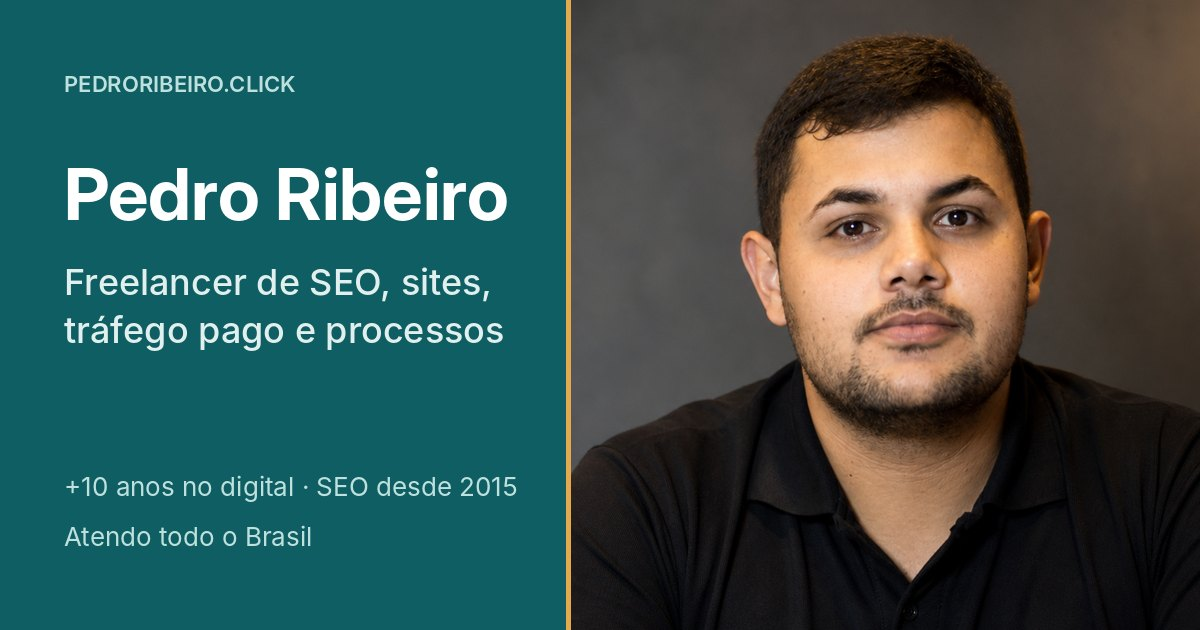
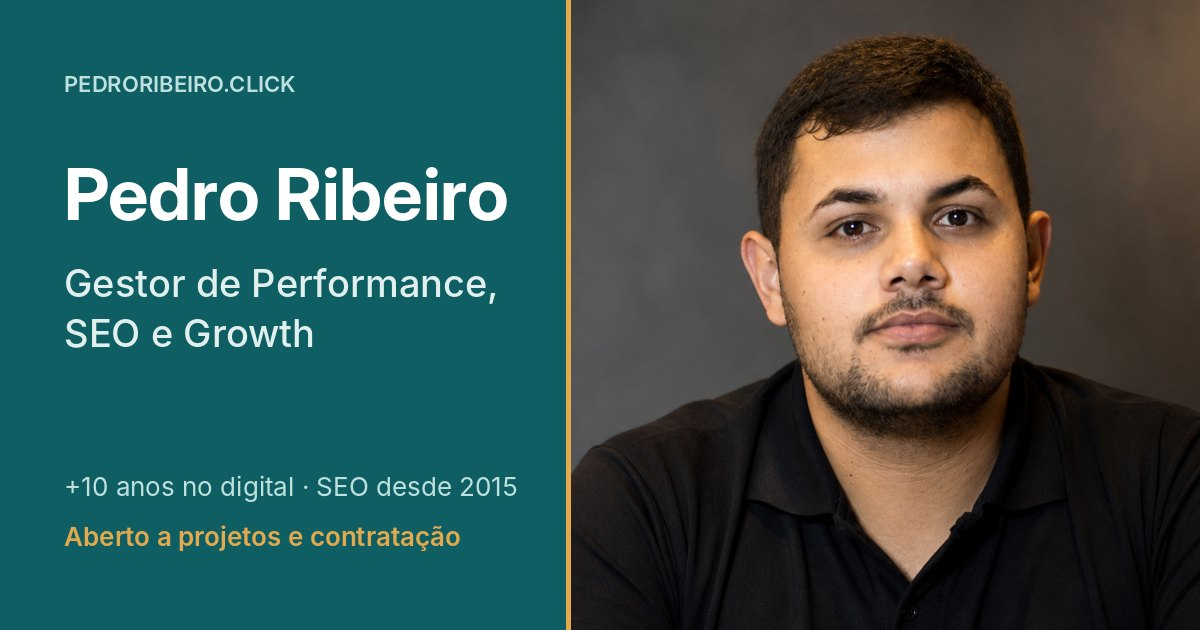
Home aberta a contratação, sem automação de WhatsApp e com novo CTA
- Seção 'Formas de trabalhar comigo': CLT ou PJ, projetos e gestão mensal
- Serviço 3 vira 'Tráfego pago e retenção de clientes'; remove ativação por WhatsApp e o grupo de ferramentas de ativação
- CTA final com dois caminhos: 'Tenho uma vaga' e 'Tenho um projeto'
- Menu 'Contato' no lugar de 'WhatsApp'; caixa de autor do blog com 'Vamos conversar'
- Título, descrição e imagem de prévia: Gestor de Performance, SEO e Growth

Claude-Session: https://claude.ai/code/session_01RxAB8NnbBN8iyLoSrqad1N

Changed region(s): [[0.0308, 0.4222, 0.4317, 0.573], [0.0308, 0.8143, 0.4008, 0.8746]]

diff --git a/src/home.html b/src/home.html
@@ -54,7 +54,7 @@ j=d.createElement(s),dl=l!='dataLayer'?'&l='+l:'';j.async=true;j.src=
    "alternateName": "Pedro Ribeiro",
    "url": "https://pedroribeiro.click/",
    "image": "https://pedroribeiro.click/img/pedro-ribeiro.jpg",
-   "jobTitle": "Freelancer de SEO, Sites, Tráfego Pago e Processos",
+   "jobTitle": "Gestor de Performance, SEO e Growth",
    "telephone": "+55-37-98412-5469",
    "address": {
     "@type": "PostalAddress",
@@ -74,7 +74,7 @@ j=d.createElement(s),dl=l!='dataLayer'?'&l='+l:'';j.async=true;j.src=
     "Criação de sites em WordPress",
     "Landing pages",
     "Tráfego pago (Meta Ads)",
-    "Ativação de clientes por WhatsApp e ligação",
+    "Estratégia de retenção de clientes",
     "Mapeamento de processos",
     "Gestão de performance"
    ],
@@ -111,12 +111,13 @@ j=d.createElement(s),dl=l!='dataLayer'?'&l='+l:'';j.async=true;j.src=
      "name": "Estratégia de Negócios",
      "credentialCategory": "Certificado"
     }
-   ]
+   ],
+   "description": "Gestor de Performance, SEO e Growth com mais de 10 anos no digital. Aberto a contratação CLT ou PJ e a projetos."
   },
   {
    "@type": "ProfessionalService",
    "@id": "https://pedroribeiro.click/#servico",
-   "name": "Pedro Ribeiro · SEO, Sites e Tráfego Pago",
+   "name": "Pedro Ribeiro · Performance, SEO e Growth",
    "url": "https://pedroribeiro.click/",
    "image": "https://pedroribeiro.click/img/og-image.jpg",
    "telephone": "+55-37-98412-5469",
@@ -196,7 +197,7 @@ j=d.createElement(s),dl=l!='dataLayer'?'&l='+l:'';j.async=true;j.src=
       "@type": "Offer",
       "itemOffered": {
        "@type": "Service",
-       "name": "Ativação de clientes por WhatsApp e ligação"
+       "name": "Estratégia de retenção de clientes"
       }
      },
      {
@@ -410,7 +411,7 @@ footer { padding-block: 28px 40px; color: var(--muted); font-size: 13.5px; }
 .topnav { display: flex; gap: 18px; align-items: center; font-size: 15px; }
 .topnav a { color: var(--muted); text-decoration: none; font-weight: 500; }
 .topnav a:hover, .topnav a[aria-current="page"] { color: var(--accent); }
-.topnav .nav-wa { color: var(--wa); font-weight: 600; }
+.topnav .nav-wa { color: var(--accent); font-weight: 600; }
 @media (max-width: 560px) { .topnav .hide-sm { display: none; } }
 .creds { display: grid; grid-template-columns: repeat(2, minmax(0, 1fr)); gap: 18px; }
 .cred { display: flex; gap: 16px; align-items: flex-start; background: var(--surface); border: 1px solid var(--line); border-radius: 16px; padding: 20px; min-width: 0; }
@@ -427,6 +428,28 @@ footer { padding-block: 28px 40px; color: var(--muted); font-size: 13.5px; }
 .post-card p { color: var(--muted); font-size: 15px; }
 .more { margin-top: 22px; font-weight: 600; }
 @media (max-width: 860px) { .creds, .posts { grid-template-columns: 1fr; } }
+
+.modes { display: grid; grid-template-columns: repeat(3, minmax(0, 1fr)); gap: 18px; }
+.mode { display: grid; gap: 12px; align-content: start; background: var(--surface); border: 1px solid var(--line); border-radius: 16px; padding: 24px; min-width: 0; }
+.mode.hire { background: var(--accent-soft); border-color: transparent; }
+.mode .tag { font-family: var(--mono); font-size: 12px; color: var(--signal); letter-spacing: .06em; text-transform: uppercase; }
+.mode h3 { font-size: 21px; font-weight: 700; }
+.mode p { color: var(--muted); font-size: 15.5px; }
+.mode ul { margin: 0; padding: 0; list-style: none; display: grid; gap: 6px; font-size: 15px; }
+.mode li { padding-left: 20px; position: relative; }
+.mode li::before { content: ""; position: absolute; left: 2px; top: .62em; width: 8px; height: 2px; background: var(--accent); }
+.mode .link { font-weight: 600; text-decoration: none; margin-top: 4px; }
+.btn-primary { background: var(--accent); color: var(--bg); }
+.btn-primary:hover { transform: translateY(-1px); box-shadow: 0 6px 18px rgba(0,0,0,.14); }
+.paths { display: grid; grid-template-columns: repeat(2, minmax(0, 1fr)); gap: 16px; margin-top: 10px; }
+.path { background: color-mix(in srgb, var(--bg) 10%, transparent); border: 1px solid color-mix(in srgb, var(--bg) 30%, transparent); border-radius: 16px; padding: 22px; display: grid; gap: 10px; align-content: start; }
+.path h3 { color: var(--bg); font-size: 19px; font-weight: 700; }
+.path p { font-size: 15.5px; }
+.path .btn-row { margin-top: 6px; }
+.cta .btn-light { background: var(--bg); color: var(--accent); }
+.cta .btn-outline { border: 1px solid color-mix(in srgb, var(--bg) 60%, transparent); color: var(--bg); }
+.cta .reach { font-size: 14.5px; opacity: .85; margin-top: 6px; }
+@media (max-width: 860px) { .modes, .paths { grid-template-columns: 1fr; } }
 </style>
 </head>
 <body>
@@ -441,7 +464,7 @@ height="0" width="0" style="display:none;visibility:hidden"></iframe></noscript>
       <a class="hide-sm" href="/#servicos">Serviços</a>
       <a class="hide-sm" href="/#cases">Cases</a>
       <a href="/blog">Blog</a>
-      <a class="nav-wa" href="https://wa.me/5537984125469?text=Ol%C3%A1%2C%20Pedro!%20Vi%20seu%20portf%C3%B3lio%20e%20quero%20conversar%20sobre%20um%20projeto." target="_blank" rel="noopener">WhatsApp</a>
+      <a class="nav-wa" href="/#contato">Contato</a>
     </nav>
   </div>
 </header>
@@ -451,25 +474,24 @@ height="0" width="0" style="display:none;visibility:hidden"></iframe></noscript>
   <div class="wrap">
     <div class="hero-grid">
       <div>
-        <p class="eyebrow">Freelancer · SEO, sites, tráfego pago e processos</p>
+        <p class="eyebrow">Performance, SEO e Growth · Aberto a projetos e contratação</p>
         <h1 style="margin-top:12px">Pedro Ribeiro</h1>
-        <p class="role">Faço sua empresa ser encontrada, vender mais e funcionar com processo.</p>
+        <p class="role">Ajudo empresas a serem encontradas, venderem mais e funcionarem com processo.</p>
         <p class="pitch">Gestor de Performance e Operações com mais de 10 anos no digital. Comecei em 2015 criando e monetizando sites com SEO e hoje junto as duas pontas: executo a parte técnica (sites, SEO, Google Meu Negócio, anúncios) e organizo a operação em volta dela (processos, indicadores e rotina).</p>
         <div class="chips">
-          <span class="chip"><b>Remoto</b> · atendo todo o Brasil</span>
+          <span class="chip"><b>Disponível</b> · CLT, PJ ou projetos</span>
           <span class="chip">Gestor que também executa</span>
-          <span class="chip">Bacharel em Ciências Contábeis</span>
+          <span class="chip">Remoto, híbrido ou presencial em Pompéu-MG</span>
         </div>
         <div class="btn-row">
-          <a class="btn btn-wa" href="https://wa.me/5537984125469?text=Ol%C3%A1%2C%20Pedro!%20Vi%20seu%20portf%C3%B3lio%20e%20quero%20conversar%20sobre%20um%20projeto." target="_blank" rel="noopener"><svg viewBox="0 0 24 24" aria-hidden="true"><path d="M12.04 2C6.58 2 2.13 6.45 2.13 11.91c0 1.75.46 3.45 1.32 4.95L2.05 22l5.25-1.38a9.9 9.9 0 0 0 4.74 1.21h.01c5.46 0 9.91-4.45 9.91-9.91A9.85 9.85 0 0 0 12.04 2zm5.8 14.08c-.25.69-1.45 1.33-2 1.38-.51.05-1 .24-3.36-.7-2.84-1.12-4.65-4.04-4.79-4.22-.14-.19-1.15-1.53-1.15-2.92s.73-2.07.99-2.35c.26-.28.56-.35.75-.35h.54c.17 0 .41-.07.64.49.24.58.81 2 .88 2.14.07.14.12.31.02.5-.09.19-.14.31-.28.47-.14.17-.3.37-.42.5-.14.14-.29.29-.12.57.17.28.74 1.22 1.59 1.98 1.09.97 2.01 1.27 2.29 1.41.28.14.45.12.61-.07.17-.19.71-.82.9-1.11.19-.28.37-.24.63-.14.26.09 1.64.77 1.92.91.28.14.47.21.54.33.07.12.07.68-.18 1.37z"/></svg>Falar no WhatsApp</a>
-          <a class="btn btn-ghost" href="#servicos">Ver serviços</a>
+          <a class="btn btn-primary" href="#contato">Vamos conversar</a>
+          <a class="btn btn-ghost" href="#formas">Como posso ajudar</a>
           <a class="btn btn-icon" href="https://www.linkedin.com/in/pedro-henrique-ribeiro/" target="_blank" rel="noopener me" aria-label="LinkedIn de Pedro Ribeiro" title="LinkedIn"><svg viewBox="0 0 24 24" aria-hidden="true"><path d="M20.45 20.45h-3.55v-5.57c0-1.33-.03-3.04-1.85-3.04-1.85 0-2.14 1.45-2.14 2.94v5.67H9.36V9h3.41v1.56h.05c.47-.9 1.63-1.85 3.36-1.85 3.6 0 4.27 2.37 4.27 5.45v6.29zM5.34 7.43a2.06 2.06 0 1 1 0-4.12 2.06 2.06 0 0 1 0 4.12zM7.12 20.45H3.56V9h3.56v11.45zM22.22 0H1.77C.79 0 0 .77 0 1.73v20.54C0 23.23.79 24 1.77 24h20.45c.98 0 1.78-.77 1.78-1.73V1.73C24 .77 23.2 0 22.22 0z"/></svg></a>
           <a class="btn btn-icon" href="https://github.com/pedrodadila" target="_blank" rel="noopener me" aria-label="GitHub de Pedro Ribeiro" title="GitHub"><svg viewBox="0 0 24 24" aria-hidden="true"><path d="M12 .3a12 12 0 0 0-3.8 23.4c.6.1.8-.3.8-.6v-2c-3.3.7-4-1.6-4-1.6-.6-1.4-1.4-1.8-1.4-1.8-1-.7.1-.7.1-.7 1.2.1 1.8 1.2 1.8 1.2 1 1.8 2.8 1.3 3.5 1 .1-.8.4-1.3.7-1.6-2.7-.3-5.5-1.3-5.5-5.9 0-1.3.5-2.4 1.2-3.2-.1-.3-.5-1.5.1-3.2 0 0 1-.3 3.3 1.2a11.5 11.5 0 0 1 6 0c2.3-1.5 3.3-1.2 3.3-1.2.7 1.7.2 2.9.1 3.2.8.8 1.2 1.9 1.2 3.2 0 4.6-2.8 5.6-5.5 5.9.5.4.9 1.1.9 2.3v3.3c0 .3.2.7.8.6A12 12 0 0 0 12 .3"/></svg></a>
-          <span class="phone">(37) 98412-5469</span>
         </div>
       </div>
       <figure class="portrait" style="margin:0">
-        <picture><source srcset="img/pedro-ribeiro.webp" type="image/webp"><img src="img/pedro-ribeiro.jpg" width="560" height="560" alt="Pedro Ribeiro, freelancer de SEO, sites e tráfego pago" fetchpriority="high" decoding="async"></picture>
+        <picture><source srcset="img/pedro-ribeiro.webp" type="image/webp"><img src="img/pedro-ribeiro.jpg" width="560" height="560" alt="Pedro Ribeiro, gestor de performance, SEO e growth" fetchpriority="high" decoding="async"></picture>
       </figure>
     </div>
     <div class="facts">
@@ -480,6 +502,52 @@ height="0" width="0" style="display:none;visibility:hidden"></iframe></noscript>
     </div>
   </div>
 </div>
+
+<section id="formas">
+  <div class="wrap">
+    <header>
+      <p class="eyebrow">Formas de trabalhar comigo</p>
+      <h2>Para o seu time ou para o seu projeto</h2>
+      <p class="lede">Estou aberto a uma posição fixa e também a projetos. O que muda é o formato; a entrega é a mesma: execução com método.</p>
+    </header>
+    <div class="modes">
+      <article class="mode hire">
+        <span class="tag">Contratação</span>
+        <h3>CLT ou PJ no seu time</h3>
+        <p>Para empresas que buscam um gestor de Performance, Marketing, Growth ou Operações. Remoto, híbrido ou presencial em Pompéu-MG.</p>
+        <ul>
+          <li>Gestão de times e de áreas inteiras</li>
+          <li>Processos, indicadores e rotina de gestão</li>
+          <li>Integração entre marketing, CRM, produto e tecnologia</li>
+        </ul>
+        <a class="link" href="https://www.linkedin.com/in/pedro-henrique-ribeiro/" target="_blank" rel="noopener me">Ver perfil no LinkedIn →</a>
+      </article>
+      <article class="mode">
+        <span class="tag">Projetos</span>
+        <h3>Entregas com começo, meio e fim</h3>
+        <p>Para quem precisa resolver algo específico, com escopo e prazo combinados.</p>
+        <ul>
+          <li>Site ou landing page</li>
+          <li>SEO local e Google Meu Negócio</li>
+          <li>Campanhas no Meta Ads</li>
+          <li>Mapeamento de processos no ClickUp</li>
+        </ul>
+        <a class="link" href="#servicos">Ver serviços →</a>
+      </article>
+      <article class="mode">
+        <span class="tag">Contrato mensal</span>
+        <h3>Gestão sob demanda</h3>
+        <p>Para empresas que precisam de alguém conduzindo o marketing e os resultados, sem um gestor em tempo integral.</p>
+        <ul>
+          <li>Plano de ação e metas mensais</li>
+          <li>Coordenação de fornecedores</li>
+          <li>Reunião de resultados com indicadores</li>
+        </ul>
+        <a class="link" href="#contato">Conversar sobre isso →</a>
+      </article>
+    </div>
+  </div>
+</section>
 
 <section id="servicos">
   <div class="wrap">
@@ -525,12 +593,12 @@ height="0" width="0" style="display:none;visibility:hidden"></iframe></noscript>
 
       <article class="svc">
         <span class="tag">Etapa 3 · Ativar</span>
-        <h3>Tráfego pago e ativação de clientes</h3>
-        <p>Atrair novos clientes com anúncios e fazer a base que já existe voltar a comprar.</p>
+        <h3>Tráfego pago e retenção de clientes</h3>
+        <p>Atrair novos clientes com anúncios e criar uma estratégia para a base que já existe voltar a comprar.</p>
         <ul>
           <li>Campanhas no Meta Ads (Facebook e Instagram)</li>
-          <li>Estrutura de ativação por WhatsApp e ligação ativa</li>
-          <li>Roteiros de abordagem e rotina de acompanhamento</li>
+          <li>Planejamento de campanhas por objetivo e público</li>
+          <li>Estratégia de retenção e reativação da base de clientes</li>
           <li>Leitura de resultados com foco em retorno</li>
         </ul>
         <p class="for"><b>Ideal para:</b> empresas com base de clientes parada ou que querem previsibilidade de vendas.</p>
@@ -698,7 +766,6 @@ height="0" width="0" style="display:none;visibility:hidden"></iframe></noscript>
       <div class="tg"><h3>Sites e hospedagem</h3><div class="tools"><span class="tool">WordPress</span><span class="tool">Elementor</span><span class="tool">Hostinger</span><span class="tool">Registro.br</span><span class="tool">Cloudflare</span><span class="tool">Vercel</span><span class="tool">GitHub</span><span class="tool">Lovable</span></div></div>
       <div class="tg"><h3>SEO, SEO local e GEO</h3><div class="tools"><span class="tool">Google Search Console</span><span class="tool">Google Meu Negócio</span><span class="tool">Google Analytics 4</span><span class="tool">Google Tag Manager</span><span class="tool">Rank Math</span><span class="tool">Semrush</span><span class="tool">Ubersuggest</span><span class="tool">PageSpeed Insights</span></div></div>
       <div class="tg"><h3>Tráfego pago</h3><div class="tools"><span class="tool">Meta Ads</span><span class="tool">Gerenciador de Negócios da Meta</span><span class="tool">Google Ads</span></div></div>
-      <div class="tg"><h3>Ativação e atendimento</h3><div class="tools"><span class="tool">WhatsApp Business</span><span class="tool">Ligação ativa</span><span class="tool">Roteiros de atendimento</span></div></div>
       <div class="tg"><h3>Gestão, processos e dados</h3><div class="tools"><span class="tool">ClickUp <small>Power User verificado</small></span><span class="tool">Notion</span><span class="tool">Trello</span><span class="tool">Google Sheets</span><span class="tool">Excel</span><span class="tool">Looker Studio</span></div></div>
       <div class="tg"><h3>IA e produtividade</h3><div class="tools"><span class="tool">Claude</span><span class="tool">ChatGPT</span><span class="tool">Canva</span><span class="tool">Google Workspace</span></div></div>
     </div>
@@ -706,15 +773,30 @@ height="0" width="0" style="display:none;visibility:hidden"></iframe></noscript>
 </section>
 
 {{LATEST_POSTS}}
-<div class="cta">
+<div class="cta" id="contato">
   <div class="wrap">
     <div class="box">
-      <h2>Vamos conversar sobre o seu projeto?</h2>
-      <p>Me chame no WhatsApp e conte em poucas linhas o que você precisa. Eu respondo com os próximos passos e um orçamento.</p>
-      <div class="btn-row" style="margin-top:8px">
-        <a class="btn btn-wa" href="https://wa.me/5537984125469?text=Ol%C3%A1%2C%20Pedro!%20Vi%20seu%20portf%C3%B3lio%20e%20quero%20conversar%20sobre%20um%20projeto." target="_blank" rel="noopener"><svg viewBox="0 0 24 24" aria-hidden="true"><path d="M12.04 2C6.58 2 2.13 6.45 2.13 11.91c0 1.75.46 3.45 1.32 4.95L2.05 22l5.25-1.38a9.9 9.9 0 0 0 4.74 1.21h.01c5.46 0 9.91-4.45 9.91-9.91A9.85 9.85 0 0 0 12.04 2zm5.8 14.08c-.25.69-1.45 1.33-2 1.38-.51.05-1 .24-3.36-.7-2.84-1.12-4.65-4.04-4.79-4.22-.14-.19-1.15-1.53-1.15-2.92s.73-2.07.99-2.35c.26-.28.56-.35.75-.35h.54c.17 0 .41-.07.64.49.24.58.81 2 .88 2.14.07.14.12.31.02.5-.09.19-.14.31-.28.47-.14.17-.3.37-.42.5-.14.14-.29.29-.12.57.17.28.74 1.22 1.59 1.98 1.09.97 2.01 1.27 2.29 1.41.28.14.45.12.61-.07.17-.19.71-.82.9-1.11.19-.28.37-.24.63-.14.26.09 1.64.77 1.92.91.28.14.47.21.54.33.07.12.07.68-.18 1.37z"/></svg>Falar no WhatsApp</a>
-        <span class="phone">(37) 98412-5469</span>
+      <p class="eyebrow" style="color:inherit;opacity:.8">Contato</p>
+      <h2>Vamos construir o próximo resultado juntos?</h2>
+      <p>Escolha o caminho que combina com o seu momento. Em poucas linhas, me conte o contexto e eu retorno com os próximos passos.</p>
+      <div class="paths">
+        <div class="path">
+          <h3>Tenho uma vaga</h3>
+          <p>Busca um gestor de Performance, Marketing, Growth ou Operações, em CLT ou PJ?</p>
+          <div class="btn-row">
+            <a class="btn btn-light" href="https://wa.me/5537984125469?text=Ol%C3%A1%2C%20Pedro!%20Vi%20seu%20site%20e%20gostaria%20de%20conversar%20sobre%20uma%20vaga." target="_blank" rel="noopener">Conversar sobre a vaga</a>
+            <a class="btn btn-outline" href="https://www.linkedin.com/in/pedro-henrique-ribeiro/" target="_blank" rel="noopener me">Ver LinkedIn</a>
+          </div>
+        </div>
+        <div class="path">
+          <h3>Tenho um projeto</h3>
+          <p>Site, SEO local, Google Meu Negócio, tráfego pago, processos ou gestão mensal.</p>
+          <div class="btn-row">
+            <a class="btn btn-light" href="https://wa.me/5537984125469?text=Ol%C3%A1%2C%20Pedro!%20Vi%20seu%20site%20e%20gostaria%20de%20um%20or%C3%A7amento%20para%20um%20projeto." target="_blank" rel="noopener">Pedir um orçamento</a>
+          </div>
+        </div>
       </div>
+      <p class="reach">Contato direto: (37) 98412-5469</p>
     </div>
   </div>
 </div>
@@ -723,11 +805,11 @@ height="0" width="0" style="display:none;visibility:hidden"></iframe></noscript>
 
 <footer>
   <div class="wrap foot">
-    <span>Pedro Ribeiro · SEO, sites, tráfego pago e processos · Pompéu, MG · atendimento remoto · WhatsApp (37) 98412-5469</span>
+    <span>Pedro Ribeiro · SEO, sites, tráfego pago e processos · Pompéu, MG · remoto ou híbrido · (37) 98412-5469</span>
     <nav aria-label="Redes"><a href="https://www.linkedin.com/in/pedro-henrique-ribeiro/" target="_blank" rel="noopener me">LinkedIn</a><a href="https://github.com/pedrodadila" target="_blank" rel="noopener me">GitHub</a></nav>
   </div>
 </footer>
 
-<a class="wa-float" href="https://wa.me/5537984125469?text=Ol%C3%A1%2C%20Pedro!%20Vi%20seu%20portf%C3%B3lio%20e%20quero%20conversar%20sobre%20um%20projeto." target="_blank" rel="noopener" aria-label="Falar no WhatsApp"><svg viewBox="0 0 24 24" aria-hidden="true"><path d="M12.04 2C6.58 2 2.13 6.45 2.13 11.91c0 1.75.46 3.45 1.32 4.95L2.05 22l5.25-1.38a9.9 9.9 0 0 0 4.74 1.21h.01c5.46 0 9.91-4.45 9.91-9.91A9.85 9.85 0 0 0 12.04 2zm5.8 14.08c-.25.69-1.45 1.33-2 1.38-.51.05-1 .24-3.36-.7-2.84-1.12-4.65-4.04-4.79-4.22-.14-.19-1.15-1.53-1.15-2.92s.73-2.07.99-2.35c.26-.28.56-.35.75-.35h.54c.17 0 .41-.07.64.49.24.58.81 2 .88 2.14.07.14.12.31.02.5-.09.19-.14.31-.28.47-.14.17-.3.37-.42.5-.14.14-.29.29-.12.57.17.28.74 1.22 1.59 1.98 1.09.97 2.01 1.27 2.29 1.41.28.14.45.12.61-.07.17-.19.71-.82.9-1.11.19-.28.37-.24.63-.14.26.09 1.64.77 1.92.91.28.14.47.21.54.33.07.12.07.68-.18 1.37z"/></svg></a>
+<a class="wa-float" href="https://wa.me/5537984125469?text=Ol%C3%A1%2C%20Pedro!%20Vi%20seu%20site%20e%20gostaria%20de%20conversar." target="_blank" rel="noopener" aria-label="Falar no WhatsApp"><svg viewBox="0 0 24 24" aria-hidden="true"><path d="M12.04 2C6.58 2 2.13 6.45 2.13 11.91c0 1.75.46 3.45 1.32 4.95L2.05 22l5.25-1.38a9.9 9.9 0 0 0 4.74 1.21h.01c5.46 0 9.91-4.45 9.91-9.91A9.85 9.85 0 0 0 12.04 2zm5.8 14.08c-.25.69-1.45 1.33-2 1.38-.51.05-1 .24-3.36-.7-2.84-1.12-4.65-4.04-4.79-4.22-.14-.19-1.15-1.53-1.15-2.92s.73-2.07.99-2.35c.26-.28.56-.35.75-.35h.54c.17 0 .41-.07.64.49.24.58.81 2 .88 2.14.07.14.12.31.02.5-.09.19-.14.31-.28.47-.14.17-.3.37-.42.5-.14.14-.29.29-.12.57.17.28.74 1.22 1.59 1.98 1.09.97 2.01 1.27 2.29 1.41.28.14.45.12.61-.07.17-.19.71-.82.9-1.11.19-.28.37-.24.63-.14.26.09 1.64.77 1.92.91.28.14.47.21.54.33.07.12.07.68-.18 1.37z"/></svg></a>
 </body>
 </html>

diff --git a/src/blog.css b/src/blog.css
@@ -40,7 +40,7 @@ h1, h2, h3, h4 { font-family: var(--display); line-height: 1.15; text-wrap: bala
 .topnav { display: flex; gap: 18px; align-items: center; font-size: 15px; }
 .topnav a { color: var(--muted); text-decoration: none; font-weight: 500; }
 .topnav a:hover, .topnav a[aria-current="page"] { color: var(--accent); }
-.topnav .nav-wa { color: var(--wa); font-weight: 600; }
+.topnav .nav-wa { color: var(--accent); font-weight: 600; }
 @media (max-width: 560px) { .topnav .hide-sm { display: none; } }
 
 /* lista do blog */
@@ -109,3 +109,4 @@ footer a { color: var(--muted); text-decoration: none; font-weight: 500; margin-
 footer a:hover { color: var(--accent); }
 .prose ul:has(> li > input[type="checkbox"]) { list-style: none; padding-left: 0; }
 .prose li > input[type="checkbox"] { margin-right: 8px; accent-color: var(--accent); }
+.btn-primary { background: var(--accent); color: var(--bg); }

diff --git a/content/posts/google-meu-negocio-checklist.md b/content/posts/google-meu-negocio-checklist.md
@@ -61,4 +61,4 @@ O perfil e o site se reforçam. Um site com o mesmo nome, endereço e telefone, 
 - [ ] Produtos e serviços cadastrados
 - [ ] Site ligado ao perfil
 
-Quer ajuda para colocar sua empresa no topo do Google Maps da sua cidade? Fale comigo pelo WhatsApp.
+Quer ajuda para colocar sua empresa no topo do Google Maps da sua cidade? [Vamos conversar](https://pedroribeiro.click/#contato).
